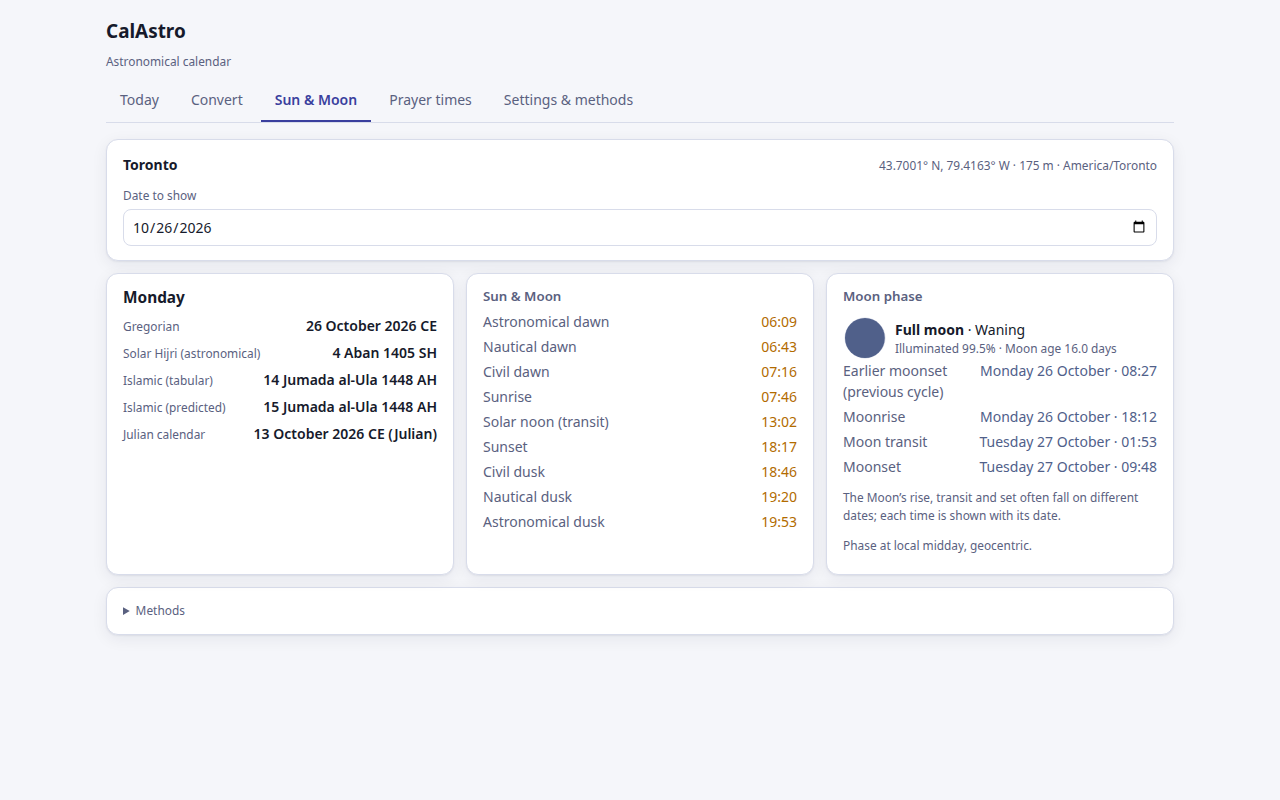
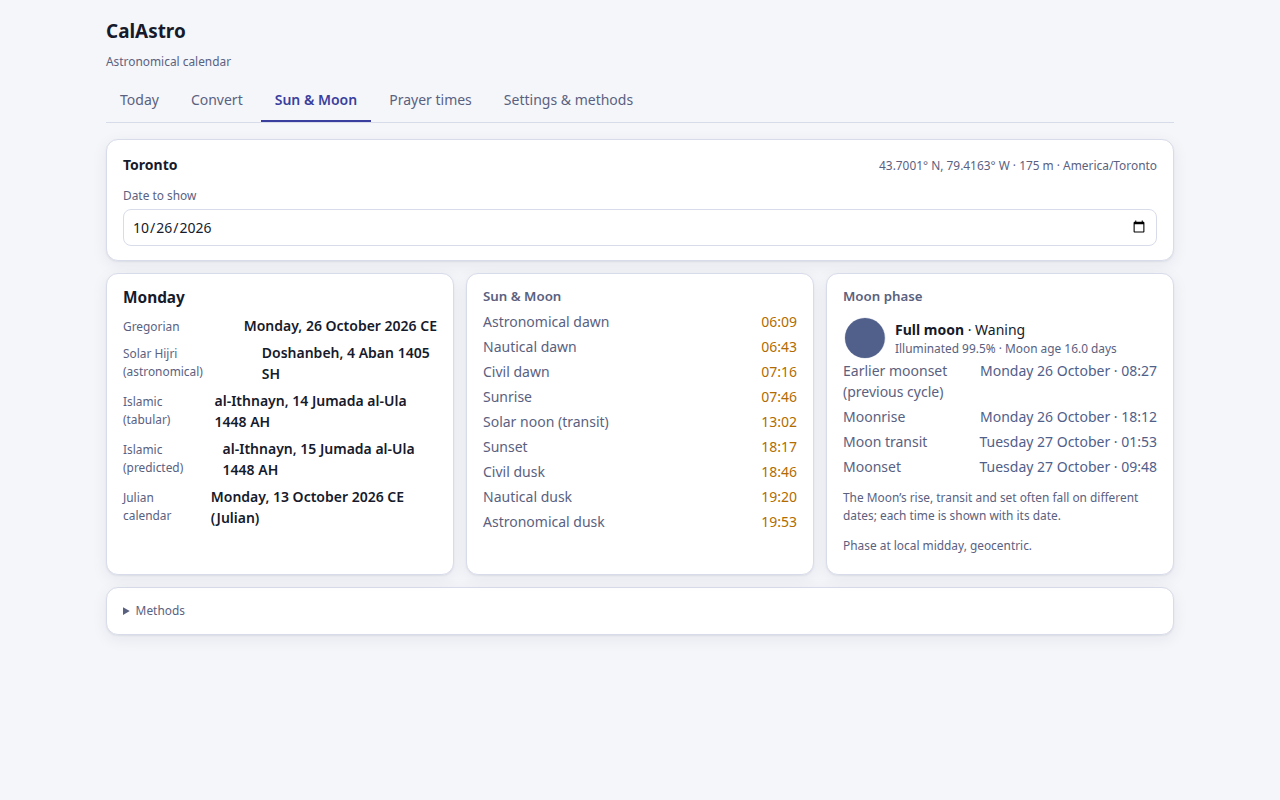
Calendrical years and weekday names; updated screenshots
Years are shown calendrically (no year zero); every date carries its weekday in
the calendar's own names. User guide, methods, release notes and screenshots
updated.

Changed region(s): [[0.0938, 0.4062, 0.3438, 0.6562]]

diff --git a/docs/user-guide.md b/docs/user-guide.md
@@ -19,11 +19,13 @@
 On **Convert**:
 1. Choose the calendar you are converting from.
 2. Enter the day, month and year. For Gregorian, Julian and tabular Islamic, choose the era:
-   CE or BCE, AH or BH. Years have no zero, so 1 BCE is followed by 1 CE. BCE results also show
-   the astronomical year number (1 BCE = year 0).
+   CE or BCE, AH or BH. Years are counted as in the calendars themselves, with no year zero: 1 BCE is
+   followed by 1 CE, and 1 BH by 1 AH.
 3. Press **Convert**.
 
-The same day is shown in every calendar, with its weekday and Julian Day Number. Each result
+The same day is shown in every calendar, each with its weekday in that calendar's own names
+(for example Yekshanbeh in Solar Hijri, al-Ahad in Islamic, Sunday in Gregorian), and with its
+Julian Day Number. Each result
 has a copy button.
 - A **±1** badge on a Solar Hijri date means the year boundary is too close to call (see the
   [methods](methods.md)).

diff --git a/CHANGELOG.md b/CHANGELOG.md
@@ -13,5 +13,8 @@ First public release.
 - Prayer times: 18 source-documented methods and the WGS84 Qibla bearing.
 - English and Persian with right-to-left layout and a choice of numerals; light and dark
   themes.
-- Works offline from the packaged JPL DE442 ephemeris. Optional updates of Earth-orientation
+- Every date shows its weekday in the calendar's own names (e.g. Yekshanbeh for Solar Hijri,
+  al-Ahad for Islamic); years are calendrical, with no year zero (1 BCE is followed by 1 CE).
+- JPL DE442/DE441 ephemeris for 1 CE – 3000 CE, downloaded once on first use (about 223 MB,
+  checksum-verified), then everything works offline. Optional updates of Earth-orientation
   and leap-second data.

diff --git a/docs/methods.md b/docs/methods.md
@@ -53,8 +53,8 @@ the extension; all other data is packaged.
 ## Calendars
 - **Gregorian and Julian:** proleptic, with exact integer arithmetic, from 999,999 BCE to
   999,999 CE.
-  - Years are shown historically (no year zero).
-  - Internally CalAstro uses astronomical numbering (1 BCE = 0, 2 BCE = −1).
+  - Years are shown and entered as in each calendar, with no year zero: 1 BCE is followed by
+    1 CE, and 1 BH by 1 AH (or 1 SH).
   - Julian calendar dates are different from Julian Day Numbers.
 - **Solar Hijri (astronomical):**
   - The year starts on the day of the March equinox if the equinox occurs before true
